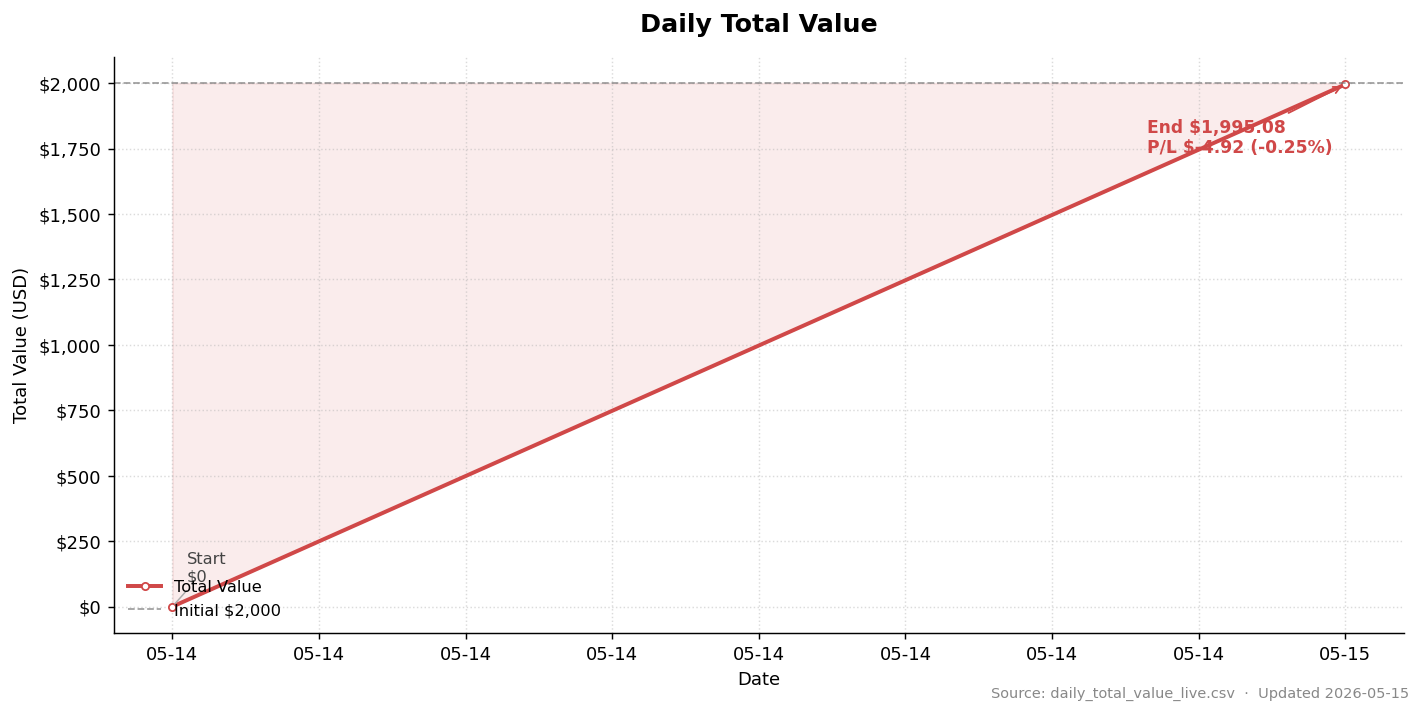
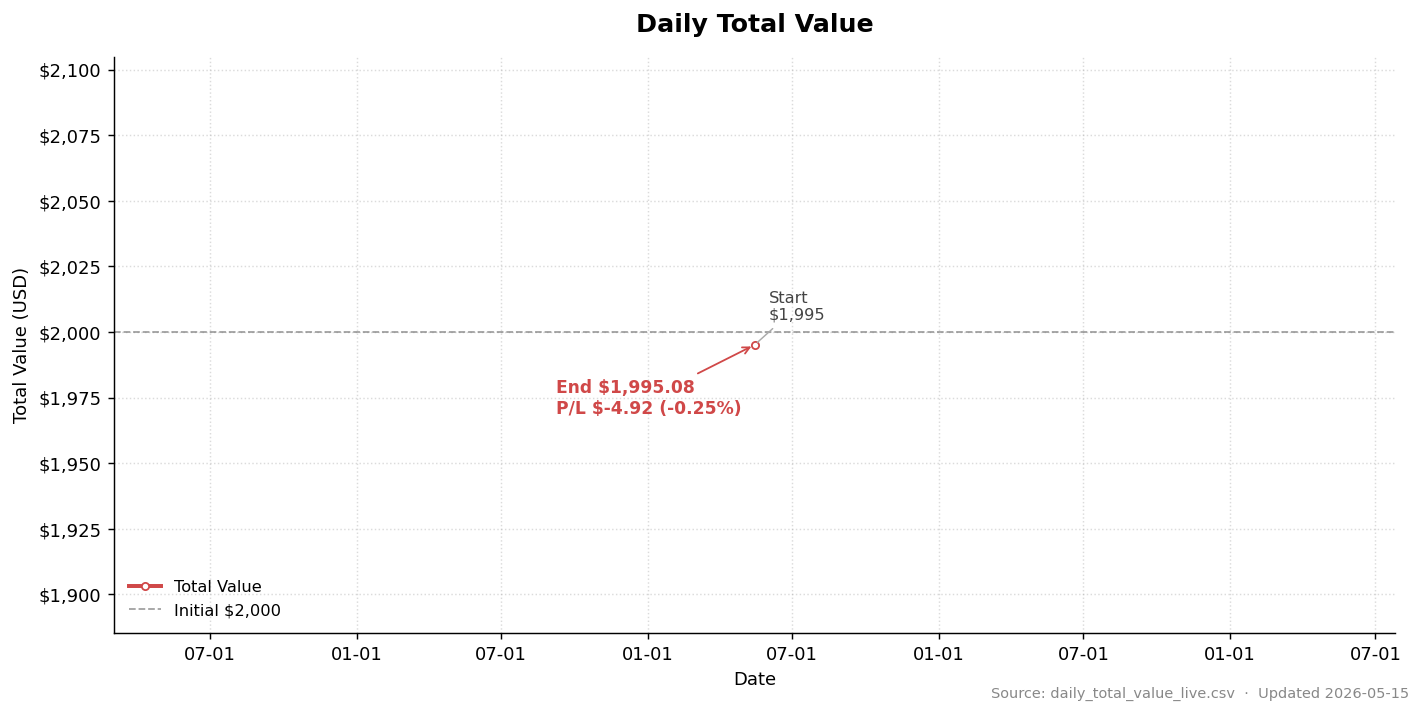
fix: skip bot-startup placeholder rows (total_value==0)
* data/daily_total_value_live.csv: remove 2026-05-14 placeholder row
  (bot's day-0 row with total_value=0, P/L=-100% — not a real trading day).
* scripts/update_daily_total_value.py: add 'if total_value == 0: continue'
  after existing-date check, so future startup/placeholder rows are
  filtered automatically.
* chart regenerated from live data (single point at $1995.08 on 5/15).

diff --git a/scripts/update_daily_total_value.py b/scripts/update_daily_total_value.py
@@ -130,6 +130,9 @@ def main():
         if r["date"] in existing_dates:
             continue
         total_value = fnum(r["total_value"])
+        if total_value == 0:
+            # skip bot startup / placeholder rows where positions weren't opened
+            continue
         curr_ddi_cum = fnum(r["ddi_total_injected"])
         daily_injection = curr_ddi_cum - prev_ddi_cum
 